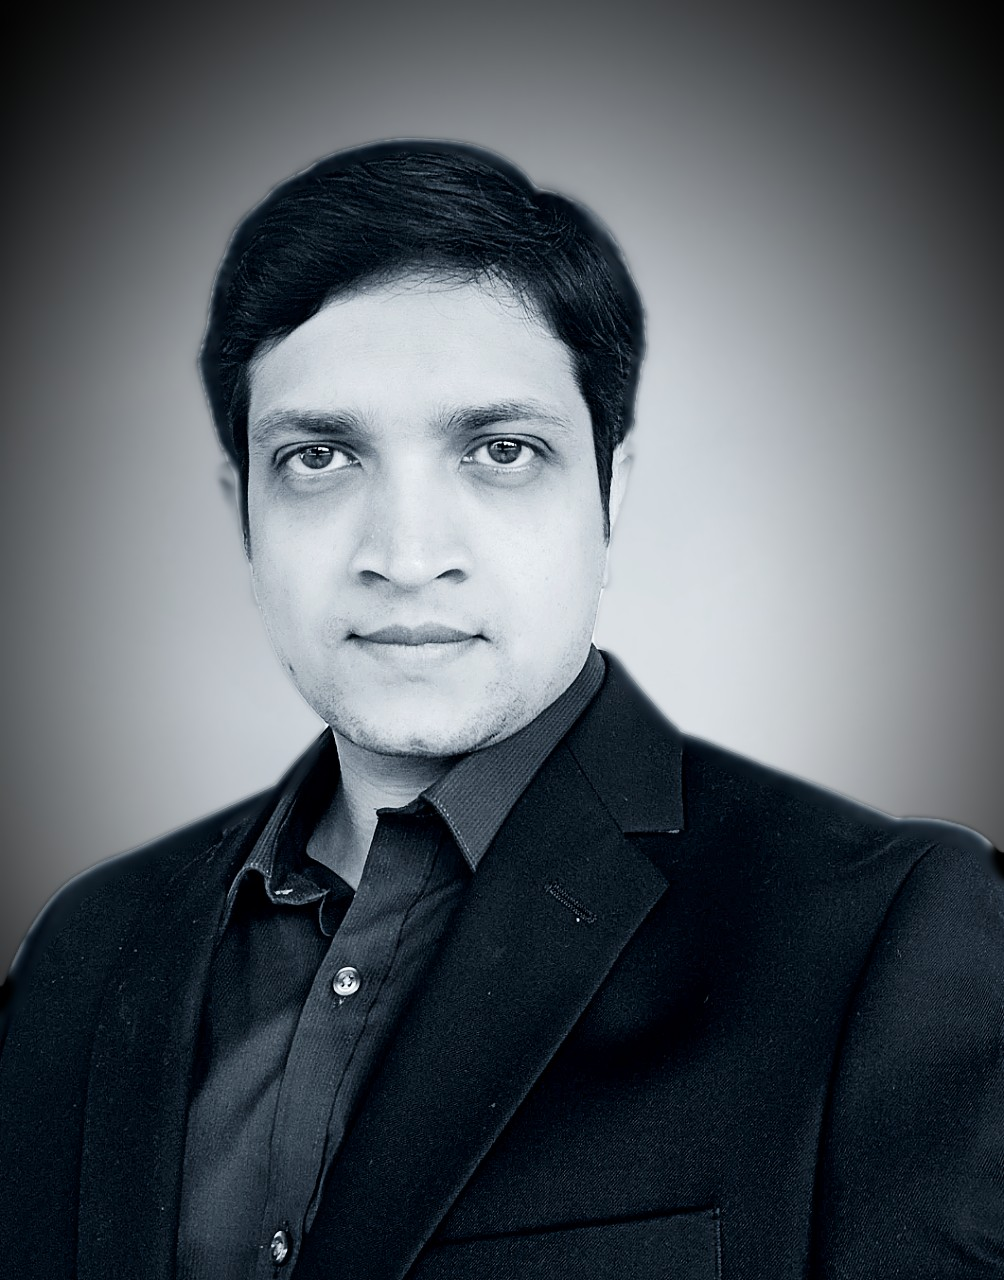
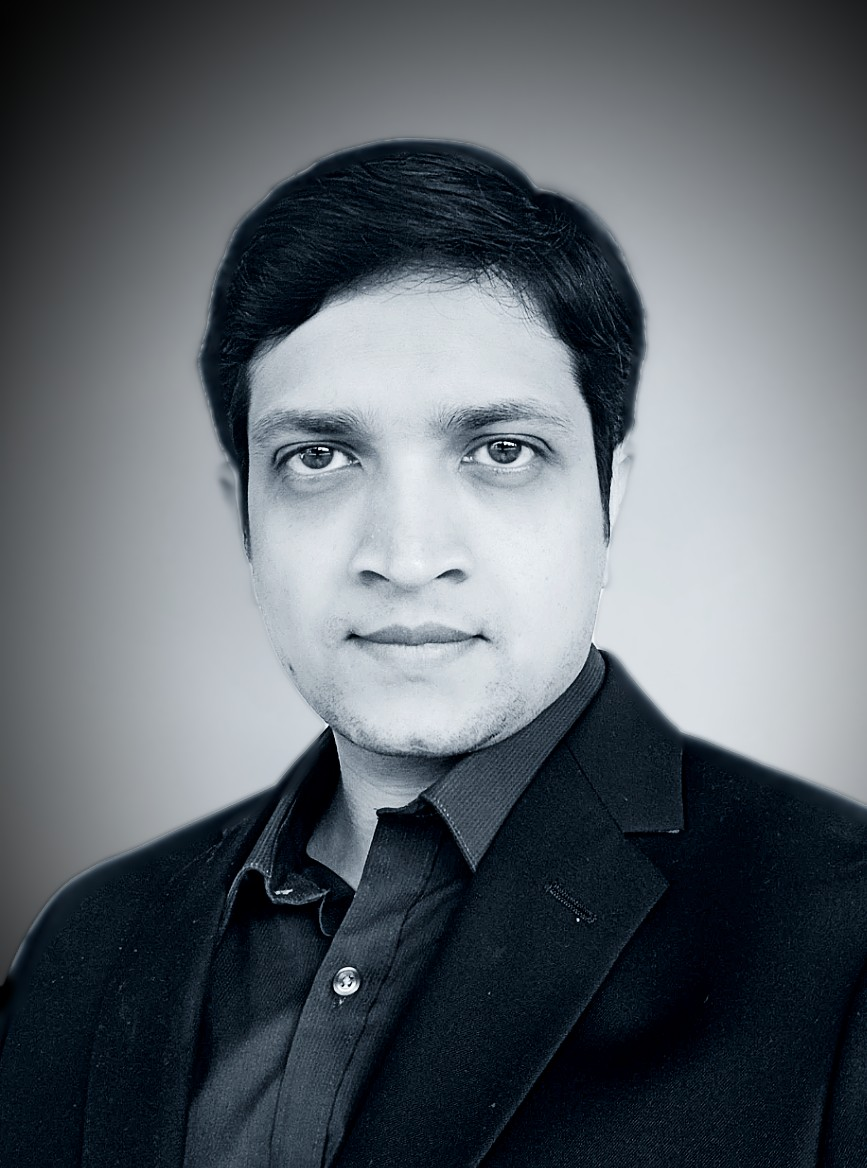
deploy: jbnaik/mysite-private@d3a75a537bd35597dfb63bdf91016686d2e949ad

diff --git a/index.html b/index.html
@@ -5,7 +5,7 @@ trackOutboundLink(event.target,event.target.getAttribute('target'));}
 gtag('js',new Date());gtag('config','UA-162105574-1',{});document.addEventListener('click',onClickCallback,false);</script><link rel=alternate href=/index.xml type=application/rss+xml title=JB><link rel=manifest href=/index.webmanifest><link rel=icon type=image/png href=/images/icon_hu0b7a4cb9992c9ac0e91bd28ffd38dd00_9727_32x32_fill_lanczos_center_2.png><link rel=apple-touch-icon type=image/png href=/images/icon_hu0b7a4cb9992c9ac0e91bd28ffd38dd00_9727_192x192_fill_lanczos_center_2.png><link rel=canonical href=https://www.jbnaik.ga/><meta property="twitter:card" content="summary"><meta property="og:site_name" content="JB"><meta property="og:url" content="https://www.jbnaik.ga/"><meta property="og:title" content="JB"><meta property="og:description" content="Sr DevOps/Cloud Engineer"><meta property="og:image" content="img/map[gravatar:%!s(bool=false) shape:circle]"><meta property="twitter:image" content="img/map[gravatar:%!s(bool=false) shape:circle]"><meta property="og:locale" content="en-us"><script type=application/ld+json>{"@context":"https://schema.org","@type":"WebSite","potentialAction":{"@type":"SearchAction","target":"https://www.jbnaik.ga/?q={search_term_string}","query-input":"required name=search_term_string"},"url":"https://www.jbnaik.ga/"}</script><title>JB</title></head><body id=top data-spy=scroll data-offset=70 data-target=#navbar-main><aside class=search-results id=search><div class=container><section class=search-header><div class="row no-gutters justify-content-between mb-3"><div class=col-6><h1>Search</h1></div><div class="col-6 col-search-close"><a class=js-search href=#><i class="fas fa-times-circle text-muted" aria-hidden=true></i></a></div></div><div id=search-box><input name=q id=search-query placeholder=Search... autocapitalize=off autocomplete=off autocorrect=off spellcheck=false type=search></div></section><section class=section-search-results><div id=search-hits></div></section></div></aside><nav class="navbar navbar-expand-lg navbar-light compensate-for-scrollbar" id=navbar-main><div class=container><div class="d-none d-lg-inline-flex"><a class=navbar-brand href=/>JB</a></div><button type=button class=navbar-toggler data-toggle=collapse data-target=#navbar-content aria-controls=navbar aria-expanded=false aria-label="Toggle navigation">
 <span><i class="fas fa-bars"></i></span></button><div class="navbar-brand-mobile-wrapper d-inline-flex d-lg-none"><a class=navbar-brand href=/>JB</a></div><div class="navbar-collapse main-menu-item collapse justify-content-start" id=navbar-content><ul class="navbar-nav d-md-inline-flex"><li class=nav-item><a class=nav-link href=/#about data-target=#about><span>About</span></a></li><li class=nav-item><a class=nav-link href=/#skills data-target=#skills><span>Skills</span></a></li><li class=nav-item><a class=nav-link href=/#experience data-target=#experience><span>Experience</span></a></li><li class=nav-item><a class=nav-link href=/#accomplishments data-target=#accomplishments><span>Accomplishments</span></a></li></ul></div><ul class="nav-icons navbar-nav flex-row ml-auto d-flex pl-md-2"><li class=nav-item><a class="nav-link js-search" href=#><i class="fas fa-search" aria-hidden=true></i></a></li><li class="nav-item dropdown theme-dropdown"><a href=# class="nav-link js-theme-selector" data-toggle=dropdown aria-haspopup=true><i class="fas fa-palette" aria-hidden=true></i></a><div class=dropdown-menu><a href=# class="dropdown-item js-set-theme-light"><span>Light</span></a>
 <a href=# class="dropdown-item js-set-theme-dark"><span>Dark</span></a>
-<a href=# class="dropdown-item js-set-theme-auto"><span>Automatic</span></a></div></li></ul></div></nav><span class="js-widget-page d-none"></span><section id=demo class="home-section wg-blank dark bg-image parallax" style="background-image:linear-gradient(rgba(0,0,0,0.6),rgba(0,0,0,0.6)),url('https://www.jbnaik.ga/img/bubbles-wide.jpg');background-size:cover;background-position:50%;padding:20px 0"><div class=container><div class=row><div class=col-lg-12><h1></h1></div></div></div></section><section id=about class="home-section wg-about"><div class=container><div class=row><div class="col-12 col-lg-4"><div id=profile><img class="avatar avatar-circle" src=/authors/admin/avatar_hu9630c1797cf4ec94ebb5beffdcc1c1cd_225889_270x270_fill_q90_lanczos_center.jpg alt="JB Naik"><div class=portrait-title><h2>JB Naik</h2><h3>Sr DevOps/Cloud Engineer</h3></div><ul class=network-icon aria-hidden=true><li><a href=https://www.linkedin.com/in/japan-jb-naik-2b403191 target=_blank rel=noopener><i class="fab fa-linkedin big-icon"></i></a></li><li><a href=mailto:japan.naik29@gmail.com><i class="fas fa-envelope big-icon"></i></a></li><li><a href=https://github.com/jbnaik target=_blank rel=noopener><i class="fab fa-github big-icon"></i></a></li></ul></div></div><div class="col-12 col-lg-8"><h1>Biography</h1><div class=row><div class=column><img src=img/badge_SolArch.png alt=SolArch width=100></div><div class=column><img src=img/badge_SysOps.png alt=SysOps width=100></div><div class=column><img src=img/badge_Dev.png alt=Dev width=100></div></div><p><p>JB Naik is an IT professional with 10+ years of experience in the Software Industry in various technologies. He is an AWS Certified Solution Architect with extensive experience in the design and implementation of fully automated Continuous Integration, Continuous Delivery Pipeline in AWS Cloud Infrastructure. He has helped clients containerizing applications and deploying them on Kubernetes. He has worked across Financial and Telecom Sectors in the US and Australia.</p><div class=row><div class=col-md-5><h3>Interests</h3><ul class=ul-interests><li>Cloud Engineering (AWS/Azure/GCP)</li><li>DevOps Tools (JIRA, Confluence, Jenkins, GoCD, Gitlab, Github, Bamboo, JFrog)</li><li>Container Technology (Docker, Kubernetes, ECS, EKS)</li><li>Python, node-js</li></ul></div><div class=col-md-7><h3>Education</h3><ul class="ul-edu fa-ul"><li><i class="fa-li fas fa-graduation-cap"></i><div class=description><p class=course>Bachelor of Engineering in Electronics, 2008</p><p class=institution>MS University</p></div></li></ul></div></div></div></div></div></section><section id=skills class="home-section wg-featurette dark bg-image parallax" style="background-image:linear-gradient(rgba(0,0,0,0.6),rgba(0,0,0,0.6)),url('https://www.jbnaik.ga/img/bubbles-wide.jpg');background-size:cover;background-position:50%;padding:20px 0"><div class=container><div class="row featurette"><div class="col-md-12 section-heading"><h1>Skills</h1></div><div class="col-12 col-sm-4"><div class=featurette-icon><i class="fab fa-aws"></i></div><h3>aws</h3></div><div class="col-12 col-sm-4"><div class=featurette-icon><i class="fas fa-dharmachakra"></i></div><h3>Kubernetes</h3></div><div class="col-12 col-sm-4"><div class=featurette-icon><i class="fab fa-docker"></i></div><h3>Docker</h3></div><div class="col-12 col-sm-4"><div class=featurette-icon><i class="fab fa-jenkins"></i></div><h3>Jenkins</h3></div><div class="col-12 col-sm-4"><div class=featurette-icon><i class="fab fa-node-js"></i></div><h3>node</h3></div><div class="col-12 col-sm-4"><div class=featurette-icon><i class="fab fa-python"></i></div><h3>Python</h3></div></div></div></section><section id=experience class="home-section wg-experience"><div class=container><div class=row><div class="col-12 col-lg-4 section-heading"><h1>Experience</h1></div><div class="col-12 col-lg-8"><div class="row experience"><div class="col-auto text-center flex-column d-none d-sm-flex"><div class="row h-50"><div class=col>&nbsp;</div><div class=col>&nbsp;</div></div><div class=m-2><span class="badge badge-pill border exp-fill">&nbsp;</span></div><div class="row h-50"><div class="col border-right">&nbsp;</div><div class=col>&nbsp;</div></div></div><div class="col py-2"><div class=card><div class=card-body><h4 class="card-title exp-title text-muted mt-0 mb-1">Sr. Cloud/DevOps Engineer</h4><h4 class="card-title exp-company text-muted my-0"><img src=img/iag.png alt=Iag width=50></h4><div class="text-muted exp-meta">Jan 2020 –
+<a href=# class="dropdown-item js-set-theme-auto"><span>Automatic</span></a></div></li></ul></div></nav><span class="js-widget-page d-none"></span><section id=demo class="home-section wg-blank dark bg-image parallax" style="background-image:linear-gradient(rgba(0,0,0,0.6),rgba(0,0,0,0.6)),url('https://www.jbnaik.ga/img/bubbles-wide.jpg');background-size:cover;background-position:50%;padding:20px 0"><div class=container><div class=row><div class=col-lg-12><h1></h1></div></div></div></section><section id=about class="home-section wg-about"><div class=container><div class=row><div class="col-12 col-lg-4"><div id=profile><img class="avatar avatar-circle" src=/authors/admin/avatar_hud4d00a98fed26acb7b24106ae85b65ab_171448_270x270_fill_q90_lanczos_center.jpg alt="JB Naik"><div class=portrait-title><h2>JB Naik</h2><h3>Sr DevOps/Cloud Engineer</h3></div><ul class=network-icon aria-hidden=true><li><a href=https://www.linkedin.com/in/japan-jb-naik-2b403191 target=_blank rel=noopener><i class="fab fa-linkedin big-icon"></i></a></li><li><a href=mailto:japan.naik29@gmail.com><i class="fas fa-envelope big-icon"></i></a></li><li><a href=https://github.com/jbnaik target=_blank rel=noopener><i class="fab fa-github big-icon"></i></a></li></ul></div></div><div class="col-12 col-lg-8"><h1>Biography</h1><div class=row><div class=column><img src=img/badge_SolArch.png alt=SolArch width=100></div><div class=column><img src=img/badge_SysOps.png alt=SysOps width=100></div><div class=column><img src=img/badge_Dev.png alt=Dev width=100></div></div><p><p>JB Naik is an IT professional with 10+ years of experience in the Software Industry in various technologies. He is an AWS Certified Solution Architect with extensive experience in the design and implementation of fully automated Continuous Integration, Continuous Delivery Pipeline in AWS Cloud Infrastructure. He has helped clients containerizing applications and deploying them on Kubernetes. He has worked across Financial and Telecom Sectors in the US and Australia.</p><div class=row><div class=col-md-5><h3>Interests</h3><ul class=ul-interests><li>Cloud Engineering (AWS/Azure/GCP)</li><li>DevOps Tools (JIRA, Confluence, Jenkins, GoCD, Gitlab, Github, Bamboo, JFrog)</li><li>Container Technology (Docker, Kubernetes, ECS, EKS)</li><li>Python, node-js</li></ul></div><div class=col-md-7><h3>Education</h3><ul class="ul-edu fa-ul"><li><i class="fa-li fas fa-graduation-cap"></i><div class=description><p class=course>Bachelor of Engineering in Electronics, 2008</p><p class=institution>MS University</p></div></li></ul></div></div></div></div></div></section><section id=skills class="home-section wg-featurette dark bg-image parallax" style="background-image:linear-gradient(rgba(0,0,0,0.6),rgba(0,0,0,0.6)),url('https://www.jbnaik.ga/img/bubbles-wide.jpg');background-size:cover;background-position:50%;padding:20px 0"><div class=container><div class="row featurette"><div class="col-md-12 section-heading"><h1>Skills</h1></div><div class="col-12 col-sm-4"><div class=featurette-icon><i class="fab fa-aws"></i></div><h3>aws</h3></div><div class="col-12 col-sm-4"><div class=featurette-icon><i class="fas fa-dharmachakra"></i></div><h3>Kubernetes</h3></div><div class="col-12 col-sm-4"><div class=featurette-icon><i class="fab fa-docker"></i></div><h3>Docker</h3></div><div class="col-12 col-sm-4"><div class=featurette-icon><i class="fab fa-jenkins"></i></div><h3>Jenkins</h3></div><div class="col-12 col-sm-4"><div class=featurette-icon><i class="fab fa-node-js"></i></div><h3>node</h3></div><div class="col-12 col-sm-4"><div class=featurette-icon><i class="fab fa-python"></i></div><h3>Python</h3></div></div></div></section><section id=experience class="home-section wg-experience"><div class=container><div class=row><div class="col-12 col-lg-4 section-heading"><h1>Experience</h1></div><div class="col-12 col-lg-8"><div class="row experience"><div class="col-auto text-center flex-column d-none d-sm-flex"><div class="row h-50"><div class=col>&nbsp;</div><div class=col>&nbsp;</div></div><div class=m-2><span class="badge badge-pill border exp-fill">&nbsp;</span></div><div class="row h-50"><div class="col border-right">&nbsp;</div><div class=col>&nbsp;</div></div></div><div class="col py-2"><div class=card><div class=card-body><h4 class="card-title exp-title text-muted mt-0 mb-1">Sr. Cloud/DevOps Engineer</h4><h4 class="card-title exp-company text-muted my-0"><img src=img/iag.png alt=Iag width=50></h4><div class="text-muted exp-meta">Jan 2020 –
 Present
 <span class=middot-divider></span><span>Sydney - Australia</span></div></div></div></div></div><div class="row experience"><div class="col-auto text-center flex-column d-none d-sm-flex"><div class="row h-50"><div class="col border-right">&nbsp;</div><div class=col>&nbsp;</div></div><div class=m-2><span class="badge badge-pill border">&nbsp;</span></div><div class="row h-50"><div class="col border-right">&nbsp;</div><div class=col>&nbsp;</div></div></div><div class="col py-2"><div class=card><div class=card-body><h4 class="card-title exp-title text-muted mt-0 mb-1">Sr. Cloud/DevOps Engineer</h4><h4 class="card-title exp-company text-muted my-0"><img src=img/accenture.png alt=Accenture width=80></h4><div class="text-muted exp-meta">Apr 2018 –
 Jan 2020

diff --git a/authors/admin/index.html b/authors/admin/index.html
@@ -5,7 +5,7 @@ trackOutboundLink(event.target,event.target.getAttribute('target'));}
 gtag('js',new Date());gtag('config','UA-162105574-1',{});document.addEventListener('click',onClickCallback,false);</script><link rel=alternate href=/authors/admin/index.xml type=application/rss+xml title=JB><link rel=manifest href=/index.webmanifest><link rel=icon type=image/png href=/images/icon_hu0b7a4cb9992c9ac0e91bd28ffd38dd00_9727_32x32_fill_lanczos_center_2.png><link rel=apple-touch-icon type=image/png href=/images/icon_hu0b7a4cb9992c9ac0e91bd28ffd38dd00_9727_192x192_fill_lanczos_center_2.png><link rel=canonical href=https://www.jbnaik.ga/authors/admin/><meta property="twitter:card" content="summary"><meta property="og:site_name" content="JB"><meta property="og:url" content="https://www.jbnaik.ga/authors/admin/"><meta property="og:title" content="JB Naik | JB"><meta property="og:description" content="Sr DevOps/Cloud Engineer"><meta property="og:image" content="img/map[gravatar:%!s(bool=false) shape:circle]"><meta property="twitter:image" content="img/map[gravatar:%!s(bool=false) shape:circle]"><meta property="og:locale" content="en-us"><title>JB Naik | JB</title></head><body id=top data-spy=scroll data-offset=70 data-target=#TableOfContents><aside class=search-results id=search><div class=container><section class=search-header><div class="row no-gutters justify-content-between mb-3"><div class=col-6><h1>Search</h1></div><div class="col-6 col-search-close"><a class=js-search href=#><i class="fas fa-times-circle text-muted" aria-hidden=true></i></a></div></div><div id=search-box><input name=q id=search-query placeholder=Search... autocapitalize=off autocomplete=off autocorrect=off spellcheck=false type=search></div></section><section class=section-search-results><div id=search-hits></div></section></div></aside><nav class="navbar navbar-expand-lg navbar-light compensate-for-scrollbar" id=navbar-main><div class=container><div class="d-none d-lg-inline-flex"><a class=navbar-brand href=/>JB</a></div><button type=button class=navbar-toggler data-toggle=collapse data-target=#navbar-content aria-controls=navbar aria-expanded=false aria-label="Toggle navigation">
 <span><i class="fas fa-bars"></i></span></button><div class="navbar-brand-mobile-wrapper d-inline-flex d-lg-none"><a class=navbar-brand href=/>JB</a></div><div class="navbar-collapse main-menu-item collapse justify-content-start" id=navbar-content><ul class="navbar-nav d-md-inline-flex"><li class=nav-item><a class=nav-link href=/#about><span>About</span></a></li><li class=nav-item><a class=nav-link href=/#skills><span>Skills</span></a></li><li class=nav-item><a class=nav-link href=/#experience><span>Experience</span></a></li><li class=nav-item><a class=nav-link href=/#accomplishments><span>Accomplishments</span></a></li></ul></div><ul class="nav-icons navbar-nav flex-row ml-auto d-flex pl-md-2"><li class=nav-item><a class="nav-link js-search" href=#><i class="fas fa-search" aria-hidden=true></i></a></li><li class="nav-item dropdown theme-dropdown"><a href=# class="nav-link js-theme-selector" data-toggle=dropdown aria-haspopup=true><i class="fas fa-palette" aria-hidden=true></i></a><div class=dropdown-menu><a href=# class="dropdown-item js-set-theme-light"><span>Light</span></a>
 <a href=# class="dropdown-item js-set-theme-dark"><span>Dark</span></a>
-<a href=# class="dropdown-item js-set-theme-auto"><span>Automatic</span></a></div></li></ul></div></nav><section id=profile-page class=pt-5><div class=container><div class=row><div class="col-12 col-lg-4"><div id=profile><img class="avatar avatar-circle" src=/authors/admin/avatar_hu9630c1797cf4ec94ebb5beffdcc1c1cd_225889_270x270_fill_q90_lanczos_center.jpg alt="JB Naik"><div class=portrait-title><h2>JB Naik</h2><h3>Sr DevOps/Cloud Engineer</h3></div><ul class=network-icon aria-hidden=true><li><a href=https://www.linkedin.com/in/japan-jb-naik-2b403191 target=_blank rel=noopener><i class="fab fa-linkedin big-icon"></i></a></li><li><a href=mailto:japan.naik29@gmail.com><i class="fas fa-envelope big-icon"></i></a></li><li><a href=https://github.com/jbnaik target=_blank rel=noopener><i class="fab fa-github big-icon"></i></a></li></ul></div></div><div class="col-12 col-lg-8"><div class=row><div class=column><img src=img/badge_SolArch.png alt=SolArch width=100></div><div class=column><img src=img/badge_SysOps.png alt=SysOps width=100></div><div class=column><img src=img/badge_Dev.png alt=Dev width=100></div></div><p><p>JB Naik is an IT professional with 10+ years of experience in the Software Industry in various technologies. He is an AWS Certified Solution Architect with extensive experience in the design and implementation of fully automated Continuous Integration, Continuous Delivery Pipeline in AWS Cloud Infrastructure. He has helped clients containerizing applications and deploying them on Kubernetes. He has worked across Financial and Telecom Sectors in the US and Australia.</p><div class=row><div class=col-md-5><h3>Interests</h3><ul class=ul-interests><li>Cloud Engineering (AWS/Azure/GCP)</li><li>DevOps Tools (JIRA, Confluence, Jenkins, GoCD, Gitlab, Github, Bamboo, JFrog)</li><li>Container Technology (Docker, Kubernetes, ECS, EKS)</li><li>Python, node-js</li></ul></div><div class=col-md-7><h3>Education</h3><ul class="ul-edu fa-ul"><li><i class="fa-li fas fa-graduation-cap"></i><div class=description><p class=course>Bachelor of Engineering in Electronics, 2008</p><p class=institution>MS University</p></div></li></ul></div></div></div></div></div></section><script src=https://cdnjs.cloudflare.com/ajax/libs/jquery/3.4.1/jquery.min.js integrity="sha256-CSXorXvZcTkaix6Yvo6HppcZGetbYMGWSFlBw8HfCJo=" crossorigin=anonymous></script><script src=https://cdnjs.cloudflare.com/ajax/libs/jquery.imagesloaded/4.1.4/imagesloaded.pkgd.min.js integrity="sha256-lqvxZrPLtfffUl2G/e7szqSvPBILGbwmsGE1MKlOi0Q=" crossorigin=anonymous></script><script src=https://cdnjs.cloudflare.com/ajax/libs/jquery.isotope/3.0.6/isotope.pkgd.min.js integrity="sha256-CBrpuqrMhXwcLLUd5tvQ4euBHCdh7wGlDfNz8vbu/iI=" crossorigin=anonymous></script><script src=https://cdnjs.cloudflare.com/ajax/libs/fancybox/3.5.7/jquery.fancybox.min.js integrity="sha256-yt2kYMy0w8AbtF89WXb2P1rfjcP/HTHLT7097U8Y5b8=" crossorigin=anonymous></script><script src=https://cdnjs.cloudflare.com/ajax/libs/mermaid/8.4.8/mermaid.min.js integrity="sha256-lyWCDMnMeZiXRi7Zl54sZGKYmgQs4izcT7+tKc+KUBk=" crossorigin=anonymous title=mermaid></script><script src=https://cdnjs.cloudflare.com/ajax/libs/highlight.js/9.18.1/highlight.min.js integrity="sha256-eOgo0OtLL4cdq7RdwRUiGKLX9XsIJ7nGhWEKbohmVAQ=" crossorigin=anonymous></script><script src=https://cdnjs.cloudflare.com/ajax/libs/highlight.js/9.18.1/languages/r.min.js></script><script src=https://cdnjs.cloudflare.com/ajax/libs/leaflet/1.5.1/leaflet.js integrity="sha256-EErZamuLefUnbMBQbsEqu1USa+btR2oIlCpBJbyD4/g=" crossorigin=anonymous></script><script>const code_highlighting=true;</script><script>const isSiteThemeDark=false;</script><script>const search_config={"indexURI":"/index.json","minLength":1,"threshold":0.3};const i18n={"no_results":"No results found","placeholder":"Search...","results":"results found"};const content_type={'post':"Posts",'project':"Projects",'publication':"Publications",'talk':"Talks"};</script><script id=search-hit-fuse-template type=text/x-template>
+<a href=# class="dropdown-item js-set-theme-auto"><span>Automatic</span></a></div></li></ul></div></nav><section id=profile-page class=pt-5><div class=container><div class=row><div class="col-12 col-lg-4"><div id=profile><img class="avatar avatar-circle" src=/authors/admin/avatar_hud4d00a98fed26acb7b24106ae85b65ab_171448_270x270_fill_q90_lanczos_center.jpg alt="JB Naik"><div class=portrait-title><h2>JB Naik</h2><h3>Sr DevOps/Cloud Engineer</h3></div><ul class=network-icon aria-hidden=true><li><a href=https://www.linkedin.com/in/japan-jb-naik-2b403191 target=_blank rel=noopener><i class="fab fa-linkedin big-icon"></i></a></li><li><a href=mailto:japan.naik29@gmail.com><i class="fas fa-envelope big-icon"></i></a></li><li><a href=https://github.com/jbnaik target=_blank rel=noopener><i class="fab fa-github big-icon"></i></a></li></ul></div></div><div class="col-12 col-lg-8"><div class=row><div class=column><img src=img/badge_SolArch.png alt=SolArch width=100></div><div class=column><img src=img/badge_SysOps.png alt=SysOps width=100></div><div class=column><img src=img/badge_Dev.png alt=Dev width=100></div></div><p><p>JB Naik is an IT professional with 10+ years of experience in the Software Industry in various technologies. He is an AWS Certified Solution Architect with extensive experience in the design and implementation of fully automated Continuous Integration, Continuous Delivery Pipeline in AWS Cloud Infrastructure. He has helped clients containerizing applications and deploying them on Kubernetes. He has worked across Financial and Telecom Sectors in the US and Australia.</p><div class=row><div class=col-md-5><h3>Interests</h3><ul class=ul-interests><li>Cloud Engineering (AWS/Azure/GCP)</li><li>DevOps Tools (JIRA, Confluence, Jenkins, GoCD, Gitlab, Github, Bamboo, JFrog)</li><li>Container Technology (Docker, Kubernetes, ECS, EKS)</li><li>Python, node-js</li></ul></div><div class=col-md-7><h3>Education</h3><ul class="ul-edu fa-ul"><li><i class="fa-li fas fa-graduation-cap"></i><div class=description><p class=course>Bachelor of Engineering in Electronics, 2008</p><p class=institution>MS University</p></div></li></ul></div></div></div></div></div></section><script src=https://cdnjs.cloudflare.com/ajax/libs/jquery/3.4.1/jquery.min.js integrity="sha256-CSXorXvZcTkaix6Yvo6HppcZGetbYMGWSFlBw8HfCJo=" crossorigin=anonymous></script><script src=https://cdnjs.cloudflare.com/ajax/libs/jquery.imagesloaded/4.1.4/imagesloaded.pkgd.min.js integrity="sha256-lqvxZrPLtfffUl2G/e7szqSvPBILGbwmsGE1MKlOi0Q=" crossorigin=anonymous></script><script src=https://cdnjs.cloudflare.com/ajax/libs/jquery.isotope/3.0.6/isotope.pkgd.min.js integrity="sha256-CBrpuqrMhXwcLLUd5tvQ4euBHCdh7wGlDfNz8vbu/iI=" crossorigin=anonymous></script><script src=https://cdnjs.cloudflare.com/ajax/libs/fancybox/3.5.7/jquery.fancybox.min.js integrity="sha256-yt2kYMy0w8AbtF89WXb2P1rfjcP/HTHLT7097U8Y5b8=" crossorigin=anonymous></script><script src=https://cdnjs.cloudflare.com/ajax/libs/mermaid/8.4.8/mermaid.min.js integrity="sha256-lyWCDMnMeZiXRi7Zl54sZGKYmgQs4izcT7+tKc+KUBk=" crossorigin=anonymous title=mermaid></script><script src=https://cdnjs.cloudflare.com/ajax/libs/highlight.js/9.18.1/highlight.min.js integrity="sha256-eOgo0OtLL4cdq7RdwRUiGKLX9XsIJ7nGhWEKbohmVAQ=" crossorigin=anonymous></script><script src=https://cdnjs.cloudflare.com/ajax/libs/highlight.js/9.18.1/languages/r.min.js></script><script src=https://cdnjs.cloudflare.com/ajax/libs/leaflet/1.5.1/leaflet.js integrity="sha256-EErZamuLefUnbMBQbsEqu1USa+btR2oIlCpBJbyD4/g=" crossorigin=anonymous></script><script>const code_highlighting=true;</script><script>const isSiteThemeDark=false;</script><script>const search_config={"indexURI":"/index.json","minLength":1,"threshold":0.3};const i18n={"no_results":"No results found","placeholder":"Search...","results":"results found"};const content_type={'post':"Posts",'project':"Projects",'publication':"Publications",'talk':"Talks"};</script><script id=search-hit-fuse-template type=text/x-template>
       <div class="search-hit" id="summary-{{key}}">
       <div class="search-hit-content">
         <div class="search-hit-name">
